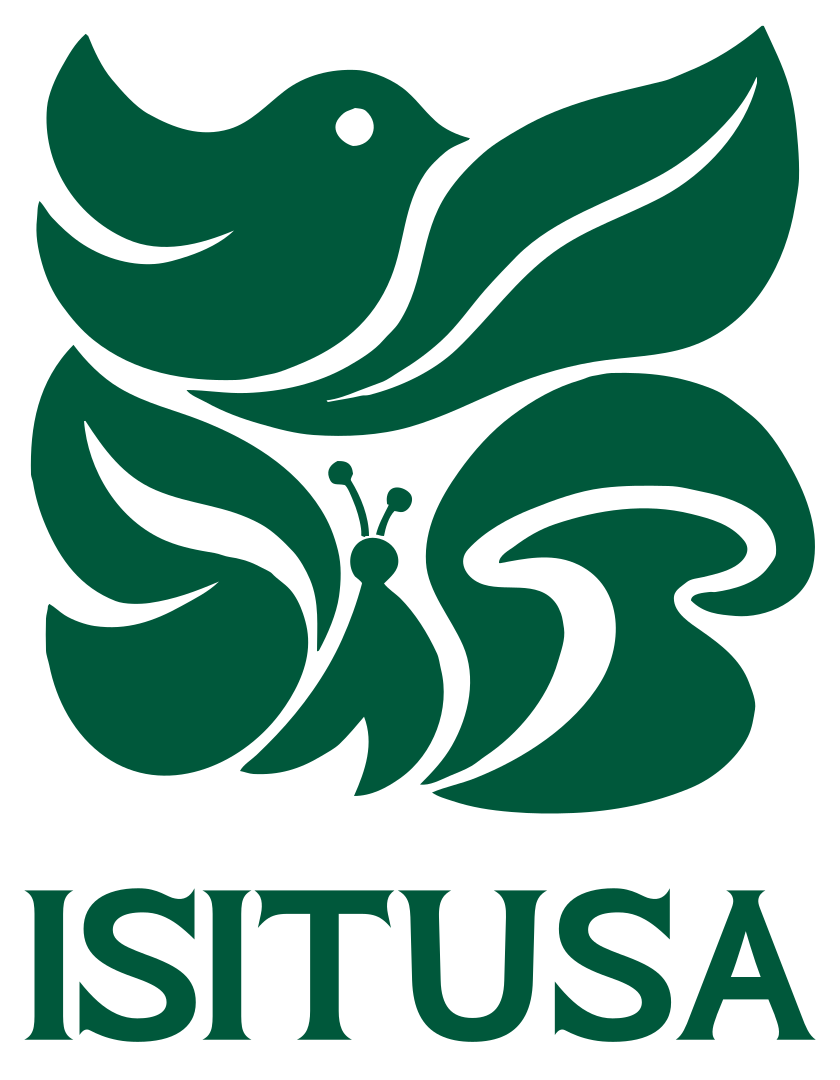
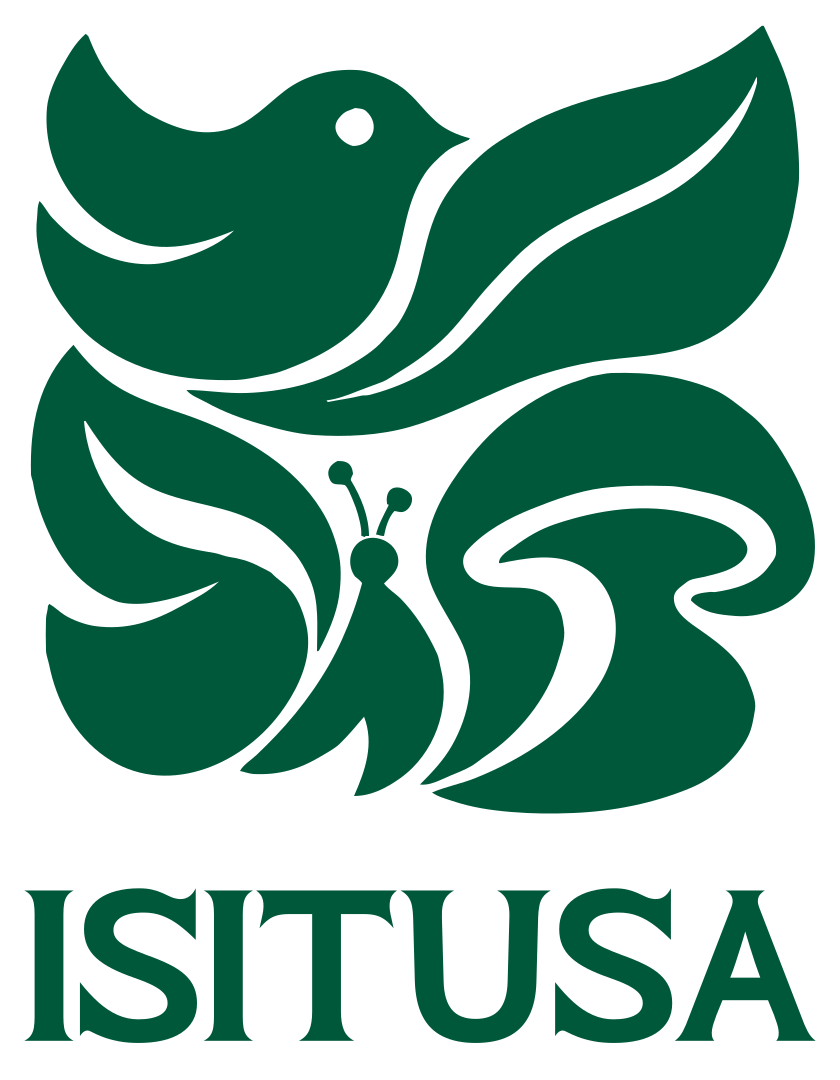
Refine Invasive Serif h height and final wordmark spacing

diff --git a/app/brand/page.tsx b/app/brand/page.tsx
@@ -4,8 +4,8 @@ import { ArrowDownToLine } from "lucide-react";
 export const metadata: Metadata = { title: "Brand kit | ISITUSA", description: "Official ISITUSA artwork for articles, community materials, and project updates.", alternates: { canonical: "/brand" } };
 const assets = [
   { file: "/brand/v3/isitusa-symbol.svg", title: "The symbol", description: "For avatars, icons, and compact spaces.", width: 840, height: 840 },
-  { file: "/brand/v10/symbol-name.svg", title: "Symbol and name", description: "Our emblem paired with the uppercase ISITUSA name.", width: 840, height: 1080 },
-  { file: "/brand/v10/wordmark-green.svg", title: "The wordmark", description: "Custom outlined lettering for headers and horizontal spaces.", width: 3750, height: 760 },
+  { file: "/brand/v10/symbol-name.svg?v=1.001", title: "Symbol and name", description: "Our emblem paired with the uppercase ISITUSA name.", width: 840, height: 1080 },
+  { file: "/brand/v10/wordmark-green.svg?v=1.001", title: "The wordmark", description: "Custom outlined lettering for headers and horizontal spaces.", width: 3724, height: 760 },
 ];
 export default function BrandPage() {
   return <main id="main-content" className="brand-kit">
@@ -17,14 +17,14 @@ export default function BrandPage() {
       <a className="text-link" href={asset.file} download><ArrowDownToLine size={16} aria-hidden="true" /> Download SVG</a>
     </section>)}</div>
     <section className="brand-kit-card" aria-labelledby="full-wordmark-heading">
-      <div className="brand-kit-art" style={{height:"auto",maxWidth:"none"}}><Image className="brand-art" src="/brand/v10/full-name.svg" width={11180} height={1874} style={{height:"auto"}} alt="Invasive Species In The United States of America" unoptimized /></div>
+      <div className="brand-kit-art" style={{height:"auto",maxWidth:"none"}}><Image className="brand-art" src="/brand/v10/full-name.svg?v=1.001" width={11180} height={1874} style={{height:"auto"}} alt="Invasive Species In The United States of America" unoptimized /></div>
       <h2 id="full-wordmark-heading">Our full name, in our own lettering.</h2><p>The same botanical lettering as our wordmark and public headings, supplied as scalable outlines.</p>
-      <a className="text-link" href="/brand/v10/full-name.svg" download>Download SVG</a>
+      <a className="text-link" href="/brand/v10/full-name.svg?v=1.001" download>Download SVG</a>
     </section>
-    <section className="brand-kit-card"><h2>One family. A living identity.</h2><p>Invasive Serif pairs broad, flowing curves with crisp, flared ends. Its sculptural capitals share the same outlines in our logo and headings. The complete Latin display system includes capitals, lowercase, numbers, accents and punctuation, with individually refined spacing. Body copy stays in a clear sans-serif.</p><div className="brand-kit-actions"><a className="text-link" href="/fonts/invasive-serif/InvasiveSerif-Bold.ttf" download>Download Invasive Serif</a><a className="text-link" href="/fonts/invasive-serif/README.txt">Font usage notes</a></div></section>
+    <section className="brand-kit-card"><h2>One family. A living identity.</h2><p>Invasive Serif pairs broad, flowing curves with crisp, flared ends. Its sculptural capitals share the same outlines in our logo and headings. The complete Latin display system includes capitals, lowercase, numbers, accents and punctuation, with individually refined spacing. Body copy stays in a clear sans-serif.</p><div className="brand-kit-actions"><a className="text-link" href="/fonts/invasive-serif/InvasiveSerif-Bold.ttf?v=1.001" download>Download Invasive Serif</a><a className="text-link" href="/fonts/invasive-serif/README.txt">Font usage notes</a></div></section>
     <h2>Keep it recognizable.</h2>
     <p className="brand-kit-note">Write our name as <strong>ISITUSA</strong> and our website as <strong>isitusa.com</strong>. Keep the artwork in its original proportions, with clear space around it. Use green on light backgrounds and white on dark backgrounds.</p>
     <p className="brand-kit-note">Use the logo to identify the project accurately. Its use should not suggest an endorsement, partnership, government affiliation, or nonprofit status.</p>
-    <div className="brand-kit-actions"><a className="text-link" href="/brand/v10/wordmark-white.svg" download>White wordmark</a><a className="text-link" href="/brand/v10/wordmark-black.svg" download>Black wordmark</a></div>
+    <div className="brand-kit-actions"><a className="text-link" href="/brand/v10/wordmark-white.svg?v=1.001" download>White wordmark</a><a className="text-link" href="/brand/v10/wordmark-black.svg?v=1.001" download>Black wordmark</a></div>
   </main>;
 }

diff --git a/src/components/site-footer.tsx b/src/components/site-footer.tsx
@@ -11,7 +11,7 @@ export function SiteFooter() {
   return (
     <footer className="site-footer">
       <div className="footer-main">
-        <div className="footer-introduction"><Link href="/" className="footer-brand" aria-label="ISITUSA home"><Image className="brand-art" src="/brand/v10/symbol-name.svg" alt="ISITUSA" width={90} height={116} unoptimized /></Link><p>Accessible invasive species research to protect the places you love</p></div>
+        <div className="footer-introduction"><Link href="/" className="footer-brand" aria-label="ISITUSA home"><Image className="brand-art" src="/brand/v10/symbol-name.svg?v=1.001" alt="ISITUSA" width={90} height={116} unoptimized /></Link><p>Accessible invasive species research to protect the places you love</p></div>
         <nav aria-label="Explore"><h2>Explore</h2><Link href="/">Map</Link><Link href="/species">Species</Link><Link href="/research">Research</Link><Link href="/about">About ISITUSA</Link></nav>
         <nav aria-label="Get involved"><h2>Get involved</h2><Link href="/report">Document a sighting <ArrowUpRight size={14} aria-hidden="true" /></Link><Link href="/join">Email updates <ArrowUpRight size={14} aria-hidden="true" /></Link><Link href="/support">Support the work <ArrowUpRight size={14} aria-hidden="true" /></Link></nav>
         <nav aria-label="Site information"><h2>Good to know</h2><Link href="/brand">Brand kit</Link><Link href="/privacy">Privacy</Link><button type="button" className="text-left min-h-11" onClick={() => window.dispatchEvent(new Event(ANALYTICS_SETTINGS_EVENT))}>Privacy choices</button><Link href="/terms">Support terms</Link><Link href="/preferences">Email preferences</Link><Link href="/about#credits">Credits</Link></nav>

diff --git a/app/about/page.tsx b/app/about/page.tsx
@@ -45,8 +45,8 @@ export default function AboutPage() {
         <div className="about-mission">
           <h1>Accessible invasive species research to protect the places you love</h1>
           <div className="about-brand-lockup" aria-label="ISITUSA">
-            <Image className="brand-art" src="/brand/v10/symbol-name.svg" alt="ISITUSA" width={840} height={1080} unoptimized priority />
-            <Image className="brand-art about-full-name" src="/brand/v10/full-name.svg" alt="Invasive Species In The United States of America" width={11180} height={1874} unoptimized priority />
+            <Image className="brand-art" src="/brand/v10/symbol-name.svg?v=1.001" alt="ISITUSA" width={840} height={1080} unoptimized priority />
+            <Image className="brand-art about-full-name" src="/brand/v10/full-name.svg?v=1.001" alt="Invasive Species In The United States of America" width={11180} height={1874} unoptimized priority />
           </div>
           <p className="about-lead">Our mission is to make invasive species research accessible, understandable, and useful to everyone. We connect people with accurate information about the species near them, helping communities take informed action to protect native biodiversity and the places they love.</p>
           <p className="about-mission-copy"><strong className="brand-wordmark">ISITUSA</strong> is an independent initiative established in the United States of America by environmentalists.</p>

diff --git a/app/globals.css b/app/globals.css
@@ -1277,7 +1277,7 @@ html { scroll-padding-top:calc(var(--site-header-height) + var(--site-header-top
 .profile-section-nav{display:flex;flex-wrap:wrap;gap:8px 28px;margin-top:24px;font-size:14px}.profile-section-nav a{display:inline-flex;align-items:center;min-height:44px;text-decoration:underline;text-underline-offset:4px}.profile-report-callout{display:flex;align-items:center;justify-content:space-between;gap:24px;padding:24px 0;border-block:1px solid var(--border)}.profile-report-callout h3{font-size:22px;margin-bottom:8px}.profile-report-callout p{font-size:15px;color:var(--muted)}.profile-correction form{max-width:780px;padding-top:20px}.profile-correction h3{font-size:23px;line-height:1.4}.profile-correction legend{padding-bottom:12px}@media(max-width:640px){.profile-report-callout{align-items:flex-start;flex-direction:column}.profile-section-nav{gap:4px 20px}}
 
 /* One editorial voice; data, controls and body copy retain the UI sans. */
-@font-face{font-family:"Invasive Serif";src:url("/fonts/invasive-serif/invasive-serif.woff2") format("woff2");font-style:normal;font-weight:700;font-display:swap}
+@font-face{font-family:"Invasive Serif";src:url("/fonts/invasive-serif/invasive-serif.woff2?v=1.001") format("woff2");font-style:normal;font-weight:700;font-display:swap}
 h1,h2,h3,
 :is(.reading-page,.about-page,.brand-kit) h1,
 :is(.reading-page,.about-page,.brand-kit) h2,

diff --git a/src/components/site-header.tsx b/src/components/site-header.tsx
@@ -42,7 +42,7 @@ export function SiteHeader() {
     <header className="site-header glass-panel">
       <Link href="/" className="site-brand" aria-label="ISITUSA home: Invasive Species In The United States of America">
         <Image className="brand-art" src="/brand/v3/isitusa-symbol.svg" alt="" width={70} height={70} priority unoptimized />
-        <Image className="brand-art header-wordmark" src="/brand/v10/wordmark-green.svg" alt="ISITUSA" width={3750} height={760} unoptimized priority />
+        <Image className="brand-art header-wordmark" src="/brand/v10/wordmark-green.svg?v=1.001" alt="ISITUSA" width={3724} height={760} unoptimized priority />
       </Link>
       <nav ref={nav} aria-label="Primary">
         <span aria-hidden="true" className="nav-active-pill" style={{ width: pill.width, transform: `translateX(${pill.left}px)`, opacity: pill.width ? 1 : 0 }} />

diff --git a/app/layout.tsx b/app/layout.tsx
@@ -48,7 +48,7 @@ export default function RootLayout({
 }>) {
   return (
     <html lang="en" suppressHydrationWarning>
-      <head><link rel="preload" href="/fonts/invasive-serif/invasive-serif.woff2" as="font" type="font/woff2" crossOrigin="anonymous" /></head>
+      <head><link rel="preload" href="/fonts/invasive-serif/invasive-serif.woff2?v=1.001" as="font" type="font/woff2" crossOrigin="anonymous" /></head>
       <body className="font-[family-name:var(--font-body)] antialiased">
         <Providers>
           <div className="app-frame">

diff --git a/scripts/build-invasive-serif.py b/scripts/build-invasive-serif.py
@@ -1,4 +1,4 @@
-"""Package the approved font without changing its drawings or positioning."""
+"""Package Invasive Serif with the scoped 1.001 h and logo spacing refinements."""
 from pathlib import Path
 import hashlib
 import json
@@ -20,10 +20,21 @@ if len(sys.argv) > 1:
     MASTER.parent.mkdir(parents=True, exist_ok=True)
     shutil.copyfile(sys.argv[1], MASTER)
 font = TTFont(MASTER)
+# Translate the complete top serif down 20 units, shortening only the straight
+# ascender. Preserve its curves, width, shoulder, sidebearings and all kerning.
+h_name = font.getBestCmap()[ord('h')]
+h_glyph = font['glyf'][h_name]
+assert h_glyph.yMax == 720
+for point in range(31, 39):
+    x, y = h_glyph.coordinates[point]
+    assert y >= 610
+    h_glyph.coordinates[point] = (x, y - 20)
+h_glyph.recalcBounds(font['glyf'])
+assert h_glyph.yMax == font['glyf'][font.getBestCmap()[ord('T')]].yMax == 700
 names = {0: 'Copyright 2026 ISITUSA.', 1: 'Invasive Serif', 2: 'Bold',
-         3: 'ISITUSA:InvasiveSerif-Bold:1.000', 4: 'Invasive Serif Bold',
-         5: 'Version 1.000', 6: 'InvasiveSerif-Bold', 16: 'Invasive Serif',
-         17: 'Bold', 10: 'ISITUSA botanical display lettering. Approved Grove XXIII master.'}
+         3: 'ISITUSA:InvasiveSerif-Bold:1.001', 4: 'Invasive Serif Bold',
+         5: 'Version 1.001', 6: 'InvasiveSerif-Bold', 16: 'Invasive Serif',
+         17: 'Bold', 10: 'ISITUSA botanical display lettering. Grove XXIII with the approved h ascender refinement.'}
 for record in font['name'].names:
     if record.nameID in names:
         record.string = names[record.nameID].encode(record.getEncoding())
@@ -50,11 +61,14 @@ def shape(path, text):
 
 gs = font.getGlyphSet()
 order = font.getGlyphOrder()
-def outline(text):
+def outline(text, logo=False):
     x = 0
     paths = []
     bounds = []
-    for gid, advance, dx, dy in shape(ttf, text):
+    for index, (gid, advance, dx, dy) in enumerate(shape(ttf, text)):
+        # Optical logo adjustments only; running-text GPOS remains untouched.
+        if logo and index in (5, 6):
+            x -= {5: 16, 6: 10}[index]
         name = order[gid]
         pen = SVGPathPen(gs)
         gs[name].draw(pen)
@@ -68,7 +82,7 @@ def outline(text):
     return ''.join(paths), (min(b[0] for b in bounds), min(b[1] for b in bounds),
                             max(b[2] for b in bounds), max(b[3] for b in bounds))
 
-letters, (left, bottom, right, top) = outline('ISITUSA')
+letters, (left, bottom, right, top) = outline('ISITUSA', logo=True)
 width, height = right-left+40, top-bottom+40
 for name, color in {'green':'#00583B', 'white':'#FFFFFF', 'black':'#111111'}.items():
     (OUT / f'wordmark-{name}.svg').write_text(
@@ -87,7 +101,7 @@ body = re.search(r'<path.*</svg>', emblem, re.S).group(0).removesuffix('</svg>')
 scale = 800/width
 (OUT / 'symbol-name.svg').write_text(f'<svg xmlns="http://www.w3.org/2000/svg" viewBox="0 0 840 1080" fill="#00583B"><title>ISITUSA</title><g fill-rule="evenodd" transform="translate(-110 -90)">{body}</g><g transform="translate({20+(20-left)*scale} {884+(20+top)*scale}) scale({scale} {-scale})">{letters}</g></svg>', encoding='utf8')
 shutil.copyfile(ROOT / 'public/brand/v9/site.webmanifest', OUT / 'site.webmanifest')
-manifest = {'version':10, 'family':'Invasive Serif', 'weight':700,
+manifest = {'version':10, 'fontRevision':'1.001', 'logoOpticalAdjustments':{'US':-16,'SA':-10}, 'family':'Invasive Serif', 'weight':700,
             'wordmarkWidth':width, 'wordmarkHeight':height,
             'fullNameWidth':fullwidth, 'fullNameHeight':fullheight,
             'masterSha256':hashlib.sha256(MASTER.read_bytes()).hexdigest(),
@@ -99,7 +113,14 @@ original = TTFont(MASTER)
 packaged = TTFont(ttf)
 web = TTFont(FONTDIR / 'invasive-serif.woff2')
 for candidate in [packaged, web]:
-    assert candidate['glyf'].compile(candidate) == original['glyf'].compile(original)
+    for name in original.getGlyphOrder():
+        if name != h_name:
+            assert candidate['glyf'][name].compile(candidate['glyf']) == original['glyf'][name].compile(original['glyf']), name
+    old_points = original['glyf'][h_name].coordinates
+    new_points = candidate['glyf'][h_name].coordinates
+    for index, ((ox, oy), (nx, ny)) in enumerate(zip(old_points, new_points)):
+        assert nx == ox and ny == oy - (20 if 31 <= index <= 38 else 0)
+    assert candidate['glyf'][h_name].flags == original['glyf'][h_name].flags
     assert candidate['hmtx'].metrics == original['hmtx'].metrics
     assert candidate.getBestCmap() == original.getBestCmap()
     assert candidate['GPOS'].compile(candidate) == original['GPOS'].compile(original)
@@ -109,4 +130,4 @@ samples = ['ISITUSA', 'Your', 'October', 'Yule', 'Yvette', 'Yggdrasil',
            'Accessible invasive species research to protect the places you love.']
 for text in samples:
     assert shape(MASTER, text) == shape(ttf, text)
-print(json.dumps({**manifest, 'outlinesMetricsKerningCoveragePreserved':True}))
+print(json.dumps({**manifest, 'onlyHAscenderChanged':True, 'otherOutlinesMetricsKerningCoveragePreserved':True}))

diff --git a/DESIGN.md b/DESIGN.md
@@ -245,3 +245,5 @@ The approved combined concept uses sculptural acronym capitals, open companion h
 This section supersedes the historical Botanical typography and v9 asset guidance above. Invasive Serif is the approved Grove XXIII original Latin display master, packaged without outline, advance-width or GPOS changes. Use weight 700, normal style, native kerning, normal letter spacing and no synthetic bold/italic. Use it for the wordmark and editorial headings. Preserve the existing sans-serif for paragraphs, navigation, scientific names, controls and dense data.
 
 Current assets: `public/brand/v10/` and `public/fonts/invasive-serif/`. The SVG wordmarks use HarfBuzz positioning from the same TTF as the webfont. Rebuild using `scripts/build-invasive-serif.py`, then `scripts/render-brand-v10.mjs`. The embedded source master preserves all 297 encoded characters. Unsupported scripts fall back to the system fonts; this is a single upright display face, not a variable or multi-style family. Preserve the approved v3 emblem and the aspect ratios recorded in the v10 manifest. Historical Chonburi attribution and licenses remain with older assets.
+
+Invasive Serif 1.001 (2026-10-15): lower only the h top serif by 20 font units to match T cap height, preserving serif geometry and shoulder/stroke width. Wordmark artwork has logo-only U-S (-16) and S-A (-10) optical adjustments; text GPOS is unchanged. The original master stays immutable. Versioned asset URLs prevent stale previews. Wordmark width is now 3724 units.

diff --git a/ops/national-research/ui-work/invasive-serif-refinement-20261015/verification.md b/ops/national-research/ui-work/invasive-serif-refinement-20261015/verification.md
@@ -1,0 +1,11 @@
+# Invasive Serif 1.001 refinement
+
+- Owner requested h height correction and tighter final logo S/A spacing.
+- h top serif moved down 20 units, 720 to 700, matching T. Only points 31-38 moved; shoulder, outline flags, x coordinates and all other points preserved.
+- All other glyphs, hmtx, GPOS, cmap, hhea and prep match the immutable master in both TTF and WOFF2. 297 encoded characters retained.
+- Logo-only U-S adjustment -16 units and S-A -10 units. Final bounding gaps 20 and 12 units; no outline intersections. Other logo positions unchanged. Width 3750 to 3724; app aspect ratios updated.
+- Browser proof visually inspected at heading and logo sizes. Browser viewport override did not persist, so no broad responsive claim is made. Comparison screenshot records actual 508px viewport.
+- Application lint: 174 files, zero warnings/errors. Typecheck passed. Publication regression checks passed.
+- No changes to research data, public projections, payment, email, or authentication logic.
+- Original master SHA256 301e8b150eac3f11c0a51d8df119caaebe72e857ac40c585b2cdd11ba316d576 preserved.
+- Production verification pending.
